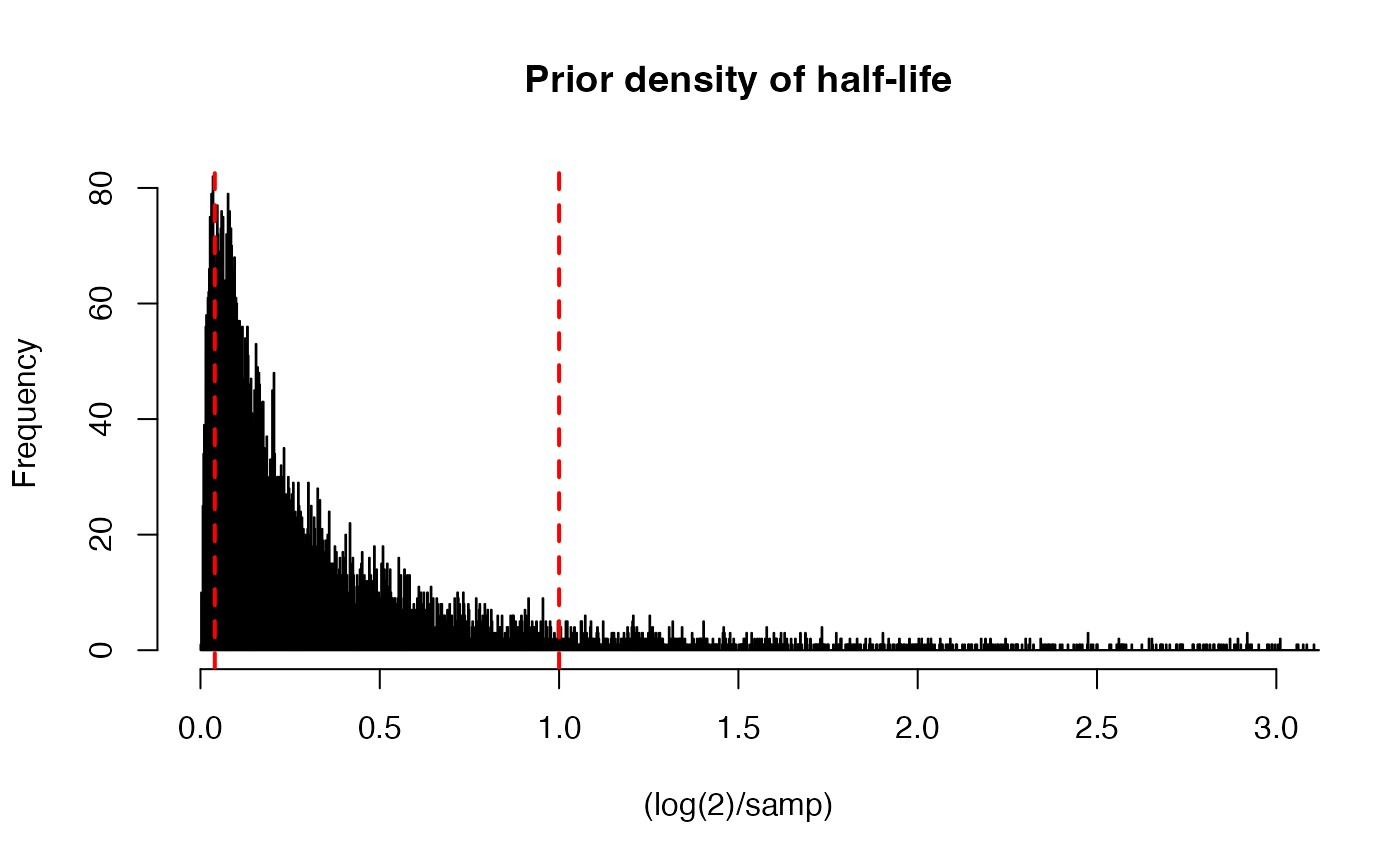
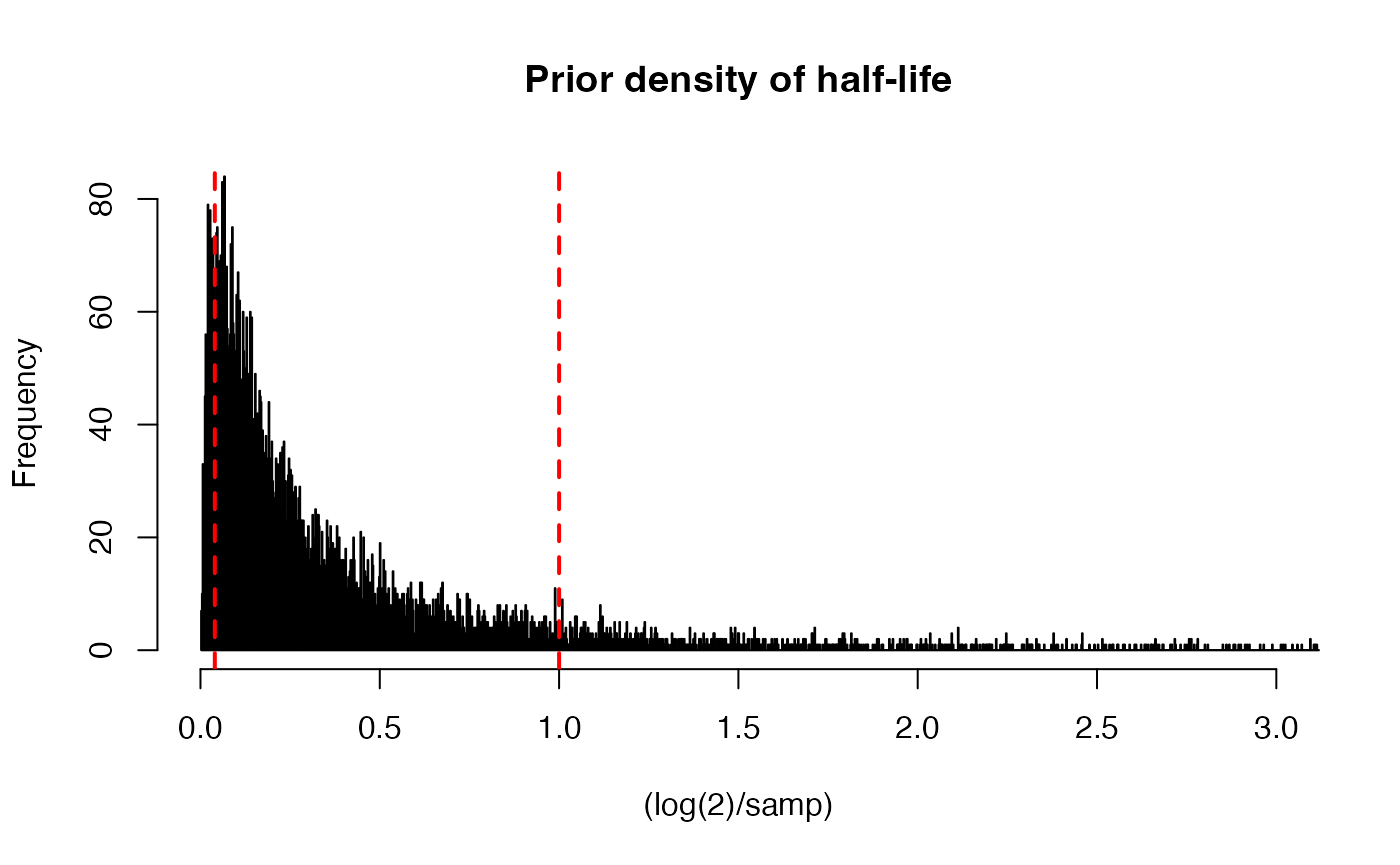
“edits”

diff --git a/docs/articles/OU-Models.html b/docs/articles/OU-Models.html
@@ -41,12 +41,12 @@
 <li class="nav-item">
   <a class="nav-link" href="../reference/">Reference</a>
 </li>
-<li class="nav-item dropdown">
+<li class="active nav-item dropdown">
   <a href="#" class="nav-link dropdown-toggle" data-bs-toggle="dropdown" role="button" aria-expanded="false" aria-haspopup="true" id="dropdown-articles">Articles</a>
   <div class="dropdown-menu" aria-labelledby="dropdown-articles">
-    <a class="dropdown-item" href="../docs/articles/OU-Models.html">OU-Models</a>
-    <a class="dropdown-item" href="../docs/articles/OU-Models-Prediction.html">OU Models with Prediction</a>
-    <a class="dropdown-item" href="../docs/articles/faq.html">FAQ</a>
+    <a class="dropdown-item" href="../articles/OU-Models.html">OU-Models</a>
+    <a class="dropdown-item" href="../articles/OU-Models-Prediction.html">OU Models with Prediction</a>
+    <a class="dropdown-item" href="../articles/faq.html">FAQ</a>
   </div>
 </li>
 <li class="nav-item">
@@ -279,13 +279,13 @@
 <div class="sourceCode" id="cb9"><pre class="downlit sourceCode r">
 <code class="sourceCode R"><span class="co">#abline(v=(c(log(2)/0.07142857,log(2)/1)), col="red", lwd=2, lty=2) #Lines for 1 Ma and length of tree (14 Ma) - </span>
 <span class="fu"><a href="https://rdrr.io/r/base/Extremes.html" class="external-link">min</a></span><span class="op">(</span><span class="va">samp</span><span class="op">)</span>
-<span class="co">#&gt; [1] 0.02573529</span>
+<span class="co">#&gt; [1] 0.04848832</span>
 <span class="fu"><a href="https://rdrr.io/r/base/Extremes.html" class="external-link">max</a></span><span class="op">(</span><span class="va">samp</span><span class="op">)</span>
-<span class="co">#&gt; [1] 524.7996</span>
+<span class="co">#&gt; [1] 281.7627</span>
 <span class="fu"><a href="https://rdrr.io/r/base/Log.html" class="external-link">log</a></span><span class="op">(</span><span class="fl">2</span><span class="op">)</span><span class="op">/</span><span class="fu"><a href="https://rdrr.io/r/base/Extremes.html" class="external-link">min</a></span><span class="op">(</span><span class="va">samp</span><span class="op">)</span>
-<span class="co">#&gt; [1] 26.93373</span>
+<span class="co">#&gt; [1] 14.29514</span>
 <span class="fu"><a href="https://rdrr.io/r/base/Log.html" class="external-link">log</a></span><span class="op">(</span><span class="fl">2</span><span class="op">)</span><span class="op">/</span><span class="fu"><a href="https://rdrr.io/r/base/Extremes.html" class="external-link">max</a></span><span class="op">(</span><span class="va">samp</span><span class="op">)</span>
-<span class="co">#&gt; [1] 0.001320784</span>
+<span class="co">#&gt; [1] 0.002460038</span>
 
 <span class="va">quantiles</span> <span class="op">&lt;-</span> <span class="fu"><a href="https://rdrr.io/r/base/c.html" class="external-link">c</a></span><span class="op">(</span><span class="fl">0</span>, <span class="fl">0.01</span>, <span class="fl">0.025</span>,<span class="fl">0.10</span>, <span class="fl">0.25</span>, <span class="fl">0.5</span>, <span class="fl">0.75</span>,<span class="fl">0.90</span>,<span class="fl">0.95</span>, <span class="fl">0.975</span>, <span class="fl">0.99</span>, <span class="fl">1</span><span class="op">)</span>
 <span class="co">#hls &lt;- rlnorm(10000, meanlog=log(2)/par.alpha$meanlog, sdlog=log(2)/par.alpha$sdlog)</span>
@@ -293,7 +293,7 @@
 <span class="va">qs</span> <span class="op">&lt;-</span> <span class="fu"><a href="https://rdrr.io/r/stats/quantile.html" class="external-link">quantile</a></span><span class="op">(</span><span class="fu"><a href="https://rdrr.io/r/base/Log.html" class="external-link">log</a></span><span class="op">(</span><span class="fl">2</span><span class="op">)</span><span class="op">/</span><span class="va">samp</span>, <span class="va">quantiles</span><span class="op">)</span> <span class="co">## Use 'alfs' and math to calculate the quantiles of phylogenetic half-life</span>
 <span class="fu"><a href="https://rdrr.io/r/base/Round.html" class="external-link">round</a></span><span class="op">(</span><span class="va">qs</span>, <span class="fl">2</span><span class="op">)</span>
 <span class="co">#&gt;    0%    1%  2.5%   10%   25%   50%   75%   90%   95% 97.5%   99%  100% </span>
-<span class="co">#&gt;  0.00  0.01  0.02  0.04  0.08  0.19  0.45  0.95  1.54  2.31  3.61 26.93</span>
+<span class="co">#&gt;  0.00  0.01  0.02  0.04  0.09  0.20  0.47  0.99  1.50  2.25  3.57 14.30</span>
 
 <span class="fu"><a href="https://rdrr.io/r/graphics/hist.html" class="external-link">hist</a></span><span class="op">(</span><span class="op">(</span><span class="fu"><a href="https://rdrr.io/r/base/Log.html" class="external-link">log</a></span><span class="op">(</span><span class="fl">2</span><span class="op">)</span><span class="op">/</span><span class="va">samp</span><span class="op">)</span>, breaks<span class="op">=</span><span class="fl">10000</span>, main<span class="op">=</span><span class="st">"Prior density of half-life"</span>,xlim<span class="op">=</span><span class="fu"><a href="https://rdrr.io/r/base/c.html" class="external-link">c</a></span><span class="op">(</span><span class="fl">0</span>,<span class="fl">3</span><span class="op">)</span><span class="op">)</span>
 <span class="fu"><a href="https://rdrr.io/r/graphics/abline.html" class="external-link">abline</a></span><span class="op">(</span>v<span class="op">=</span><span class="op">(</span><span class="fu"><a href="https://rdrr.io/r/base/c.html" class="external-link">c</a></span><span class="op">(</span><span class="fl">0.04</span>,<span class="fl">1</span><span class="op">)</span><span class="op">)</span>, col<span class="op">=</span><span class="st">"red"</span>, lwd<span class="op">=</span><span class="fl">2</span>, lty<span class="op">=</span><span class="fl">2</span><span class="op">)</span> <span class="co">#Lines for 1 Ma and length of tree (27 Ma) - </span></code></pre></div>
@@ -322,13 +322,13 @@
 <div class="sourceCode" id="cb12"><pre class="downlit sourceCode r">
 <code class="sourceCode R"><span class="co">#abline(v=(c(log(2)/0.07142857,log(2)/1)), col="red", lwd=2, lty=2) #Lines for 1 Ma and length of tree (14 Ma) - </span>
 <span class="fu"><a href="https://rdrr.io/r/base/Extremes.html" class="external-link">min</a></span><span class="op">(</span><span class="va">samp</span><span class="op">)</span>
-<span class="co">#&gt; [1] 1.60123e-05</span>
+<span class="co">#&gt; [1] 1.495512e-05</span>
 <span class="fu"><a href="https://rdrr.io/r/base/Extremes.html" class="external-link">max</a></span><span class="op">(</span><span class="va">samp</span><span class="op">)</span>
-<span class="co">#&gt; [1] 449.8383</span>
+<span class="co">#&gt; [1] 159.9032</span>
 <span class="fu"><a href="https://rdrr.io/r/base/Log.html" class="external-link">log</a></span><span class="op">(</span><span class="fl">2</span><span class="op">)</span><span class="op">/</span><span class="fu"><a href="https://rdrr.io/r/base/Extremes.html" class="external-link">min</a></span><span class="op">(</span><span class="va">samp</span><span class="op">)</span>
-<span class="co">#&gt; [1] 43288.43</span>
+<span class="co">#&gt; [1] 46348.49</span>
 <span class="fu"><a href="https://rdrr.io/r/base/Log.html" class="external-link">log</a></span><span class="op">(</span><span class="fl">2</span><span class="op">)</span><span class="op">/</span><span class="fu"><a href="https://rdrr.io/r/base/Extremes.html" class="external-link">max</a></span><span class="op">(</span><span class="va">samp</span><span class="op">)</span>
-<span class="co">#&gt; [1] 0.001540881</span>
+<span class="co">#&gt; [1] 0.004334794</span>
 
 <span class="va">quantiles</span> <span class="op">&lt;-</span> <span class="fu"><a href="https://rdrr.io/r/base/c.html" class="external-link">c</a></span><span class="op">(</span><span class="fl">0</span>, <span class="fl">0.01</span>, <span class="fl">0.025</span>,<span class="fl">0.10</span>, <span class="fl">0.25</span>, <span class="fl">0.5</span>, <span class="fl">0.75</span>, <span class="fl">0.90</span>, <span class="fl">0.975</span>, <span class="fl">0.99</span>, <span class="fl">1</span><span class="op">)</span>
 <span class="co">#hls &lt;- rlnorm(10000, meanlog=log(2)/par.alpha$meanlog, sdlog=log(2)/par.alpha$sdlog)</span>
@@ -336,7 +336,7 @@
 <span class="va">qs</span> <span class="op">&lt;-</span> <span class="fu"><a href="https://rdrr.io/r/stats/quantile.html" class="external-link">quantile</a></span><span class="op">(</span><span class="va">samp</span>, <span class="va">quantiles</span><span class="op">)</span> <span class="co">## Use 'alfs' and math to calculate the quantiles of phylogenetic half-life</span>
 <span class="fu"><a href="https://rdrr.io/r/base/Round.html" class="external-link">round</a></span><span class="op">(</span><span class="va">qs</span>, <span class="fl">2</span><span class="op">)</span>
 <span class="co">#&gt;     0%     1%   2.5%    10%    25%    50%    75%    90%  97.5%    99%   100% </span>
-<span class="co">#&gt;   0.00   0.00   0.00   0.02   0.04   0.10   0.24   0.63   2.33   6.33 449.84</span>
+<span class="co">#&gt;   0.00   0.00   0.00   0.02   0.04   0.10   0.25   0.65   2.43   5.99 159.90</span>
 
 <span class="fu"><a href="https://rdrr.io/r/graphics/hist.html" class="external-link">hist</a></span><span class="op">(</span><span class="va">samp</span><span class="op">/</span><span class="op">(</span><span class="fl">2</span><span class="op">*</span><span class="fl">2</span><span class="op">)</span>, breaks<span class="op">=</span><span class="fl">10000</span>, main<span class="op">=</span><span class="st">"Prior density of Vy"</span>,xlim<span class="op">=</span><span class="fu"><a href="https://rdrr.io/r/base/c.html" class="external-link">c</a></span><span class="op">(</span><span class="fl">0</span>,<span class="fl">3</span><span class="op">)</span><span class="op">)</span></code></pre></div>
 <p><img src="OU-Models_files/figure-html/unnamed-chunk-6-2.png" width="700"></p>
@@ -361,16 +361,16 @@
 <span class="co">#&gt; 2 chains, each with iter=4000; warmup=2000; thin=1; </span>
 <span class="co">#&gt; post-warmup draws per chain=2000, total post-warmup draws=4000.</span>
 <span class="co">#&gt; </span>
-<span class="co">#&gt;           mean se_mean    sd 2.5%  25%  50%  75% 97.5% n_eff Rhat</span>
-<span class="co">#&gt; a         6.21    0.36 10.25 0.45 1.53 2.97 6.29 37.69   823    1</span>
-<span class="co">#&gt; hl        0.37    0.01  0.50 0.02 0.11 0.23 0.45  1.55  1801    1</span>
-<span class="co">#&gt; alpha     5.06    0.00  0.04 4.98 5.03 5.06 5.08  5.14  1948    1</span>
-<span class="co">#&gt; beta[1]   0.57    0.00  0.02 0.53 0.56 0.57 0.58  0.61  2282    1</span>
-<span class="co">#&gt; vy        0.02    0.00  0.01 0.01 0.01 0.01 0.02  0.04  2456    1</span>
-<span class="co">#&gt; r_squared 0.96    0.00  0.00 0.95 0.96 0.96 0.96  0.97  1028    1</span>
-<span class="co">#&gt; sigma2_y  0.17    0.01  0.27 0.02 0.05 0.08 0.17  0.98   756    1</span>
+<span class="co">#&gt;           mean se_mean   sd 2.5%  25%  50%  75% 97.5% n_eff Rhat</span>
+<span class="co">#&gt; a         5.41    0.22 7.64 0.39 1.43 2.87 6.20 25.78  1183    1</span>
+<span class="co">#&gt; hl        0.40    0.01 0.52 0.03 0.11 0.24 0.49  1.77  1699    1</span>
+<span class="co">#&gt; alpha     5.06    0.00 0.04 4.97 5.03 5.06 5.08  5.14  1594    1</span>
+<span class="co">#&gt; beta[1]   0.57    0.00 0.02 0.53 0.56 0.57 0.58  0.61  2233    1</span>
+<span class="co">#&gt; vy        0.02    0.00 0.01 0.01 0.01 0.02 0.02  0.05  2464    1</span>
+<span class="co">#&gt; r_squared 0.96    0.00 0.00 0.95 0.96 0.96 0.96  0.97  1155    1</span>
+<span class="co">#&gt; sigma2_y  0.15    0.01 0.20 0.02 0.05 0.08 0.17  0.75  1123    1</span>
 <span class="co">#&gt; </span>
-<span class="co">#&gt; Samples were drawn using NUTS(diag_e) at Wed Dec  8 18:32:52 2021.</span>
+<span class="co">#&gt; Samples were drawn using NUTS(diag_e) at Wed Dec  8 19:11:11 2021.</span>
 <span class="co">#&gt; For each parameter, n_eff is a crude measure of effective sample size,</span>
 <span class="co">#&gt; and Rhat is the potential scale reduction factor on split chains (at </span>
 <span class="co">#&gt; convergence, Rhat=1).</span>
@@ -402,17 +402,17 @@
 <span class="co">#&gt; post-warmup draws per chain=2000, total post-warmup draws=4000.</span>
 <span class="co">#&gt; </span>
 <span class="co">#&gt;               mean se_mean    sd  2.5%   25%   50%   75%  97.5% n_eff Rhat</span>
-<span class="co">#&gt; a            43.41    0.51 23.16 15.30 27.23 37.68 53.31 105.65  2047    1</span>
-<span class="co">#&gt; hl            0.02    0.00  0.01  0.01  0.01  0.02  0.03   0.05  2346    1</span>
-<span class="co">#&gt; alpha         5.06    0.00  0.03  5.00  5.04  5.06  5.08   5.12  2977    1</span>
-<span class="co">#&gt; beta[1]       0.59    0.00  0.02  0.55  0.57  0.59  0.60   0.63  2432    1</span>
-<span class="co">#&gt; beta_evol[1]  5.06    0.00  0.00  5.05  5.06  5.06  5.06   5.06  4140    1</span>
-<span class="co">#&gt; beta_evol[2]  0.57    0.00  0.00  0.57  0.57  0.57  0.57   0.57  2986    1</span>
-<span class="co">#&gt; vy            0.01    0.00  0.00  0.00  0.00  0.00  0.01   0.02  2680    1</span>
-<span class="co">#&gt; r_squared     0.96    0.00  0.00  0.95  0.96  0.96  0.96   0.97  1697    1</span>
-<span class="co">#&gt; sigma2_y      0.50    0.01  0.50  0.01  0.13  0.33  0.71   1.92  1582    1</span>
+<span class="co">#&gt; a            42.52    0.53 22.52 14.89 27.39 37.07 51.85 102.10  1815    1</span>
+<span class="co">#&gt; hl            0.02    0.00  0.01  0.01  0.01  0.02  0.03   0.05  2276    1</span>
+<span class="co">#&gt; alpha         5.05    0.00  0.03  4.99  5.04  5.06  5.08   5.12  2855    1</span>
+<span class="co">#&gt; beta[1]       0.59    0.00  0.02  0.55  0.57  0.59  0.60   0.63  2951    1</span>
+<span class="co">#&gt; beta_evol[1]  5.06    0.00  0.00  5.05  5.06  5.06  5.06   5.06  4656    1</span>
+<span class="co">#&gt; beta_evol[2]  0.57    0.00  0.00  0.57  0.57  0.57  0.57   0.57  2815    1</span>
+<span class="co">#&gt; vy            0.01    0.00  0.00  0.00  0.00  0.00  0.01   0.02  3794    1</span>
+<span class="co">#&gt; r_squared     0.96    0.00  0.00  0.95  0.96  0.96  0.96   0.97  1789    1</span>
+<span class="co">#&gt; sigma2_y      0.48    0.01  0.49  0.01  0.12  0.30  0.66   1.89  1911    1</span>
 <span class="co">#&gt; </span>
-<span class="co">#&gt; Samples were drawn using NUTS(diag_e) at Wed Dec  8 18:37:13 2021.</span>
+<span class="co">#&gt; Samples were drawn using NUTS(diag_e) at Wed Dec  8 19:15:46 2021.</span>
 <span class="co">#&gt; For each parameter, n_eff is a crude measure of effective sample size,</span>
 <span class="co">#&gt; and Rhat is the potential scale reduction factor on split chains (at </span>
 <span class="co">#&gt; convergence, Rhat=1).</span>
@@ -441,7 +441,7 @@
 <span class="va">lml.fit.adaptive</span><span class="op">&lt;-</span><span class="fu"><a href="https://rdrr.io/pkg/bridgesampling/man/bridge_sampler.html" class="external-link">bridge_sampler</a></span><span class="op">(</span><span class="va">fit.adaptive</span>,silent<span class="op">=</span><span class="cn">TRUE</span><span class="op">)</span>
 <span class="va">BF_att</span> <span class="op">&lt;-</span> <span class="fu">bridgesampling</span><span class="fu">::</span><span class="fu"><a href="https://rdrr.io/pkg/bridgesampling/man/bf.html" class="external-link">bf</a></span><span class="op">(</span><span class="va">lml.fit.direct</span>, <span class="va">lml.fit.adaptive</span><span class="op">)</span>
 <span class="va">BF_att</span>
-<span class="co">#&gt; Estimated Bayes factor in favor of lml.fit.direct over lml.fit.adaptive: 33.69908</span></code></pre></div>
+<span class="co">#&gt; Estimated Bayes factor in favor of lml.fit.direct over lml.fit.adaptive: 32.65198</span></code></pre></div>
 <p>We find that the data is 5.2 more likely under a model that assumes a direct effect model rather than af adaptive model.</p>
 </div>
 <div class="section level1">
@@ -457,12 +457,12 @@
 <span class="co">#&gt; post-warmup draws per chain=2000, total post-warmup draws=4000.</span>
 <span class="co">#&gt; </span>
 <span class="co">#&gt;           mean se_mean   sd 2.5%  25%  50%  75% 97.5% n_eff Rhat</span>
-<span class="co">#&gt; alpha     5.05       0 0.08 4.88 5.00 5.05 5.10  5.21  2918    1</span>
-<span class="co">#&gt; beta[1]   0.56       0 0.02 0.51 0.54 0.56 0.57  0.60  2527    1</span>
-<span class="co">#&gt; r_squared 0.99       0 0.01 0.97 0.99 0.99 0.99  0.99  2053    1</span>
-<span class="co">#&gt; sigma2_y  0.03       0 0.01 0.01 0.02 0.02 0.03  0.06  2542    1</span>
+<span class="co">#&gt; alpha     5.05       0 0.08 4.90 5.00 5.05 5.11  5.21  3088    1</span>
+<span class="co">#&gt; beta[1]   0.56       0 0.02 0.51 0.54 0.56 0.57  0.60  3212    1</span>
+<span class="co">#&gt; r_squared 0.99       0 0.01 0.97 0.99 0.99 0.99  0.99  2730    1</span>
+<span class="co">#&gt; sigma2_y  0.03       0 0.01 0.01 0.02 0.02 0.03  0.05  3214    1</span>
 <span class="co">#&gt; </span>
-<span class="co">#&gt; Samples were drawn using NUTS(diag_e) at Wed Dec  8 18:39:59 2021.</span>
+<span class="co">#&gt; Samples were drawn using NUTS(diag_e) at Wed Dec  8 19:18:42 2021.</span>
 <span class="co">#&gt; For each parameter, n_eff is a crude measure of effective sample size,</span>
 <span class="co">#&gt; and Rhat is the potential scale reduction factor on split chains (at </span>
 <span class="co">#&gt; convergence, Rhat=1).</span>
@@ -492,7 +492,7 @@
 
 <span class="va">BF_att</span> <span class="op">&lt;-</span> <span class="fu">bridgesampling</span><span class="fu">::</span><span class="fu"><a href="https://rdrr.io/pkg/bridgesampling/man/bf.html" class="external-link">bf</a></span><span class="op">(</span><span class="va">lml.fit.direct</span>, <span class="va">lml.fit.BM</span><span class="op">)</span>
 <span class="va">BF_att</span>
-<span class="co">#&gt; Estimated Bayes factor in favor of lml.fit.direct over lml.fit.BM: 1.33507</span></code></pre></div>
+<span class="co">#&gt; Estimated Bayes factor in favor of lml.fit.direct over lml.fit.BM: 1.26850</span></code></pre></div>
 <p>Here the direct fit model has a Bayes Factor of 0.7 over the BM model, which makes sense for this data as the estimated phylogenetic half life is quite long, 65% the length of the phylogeny.</p>
 </div>
 <div class="section level1">

diff --git a/docs/articles/OU-Models-Prediction.html b/docs/articles/OU-Models-Prediction.html
@@ -41,12 +41,12 @@
 <li class="nav-item">
   <a class="nav-link" href="../reference/">Reference</a>
 </li>
-<li class="nav-item dropdown">
+<li class="active nav-item dropdown">
   <a href="#" class="nav-link dropdown-toggle" data-bs-toggle="dropdown" role="button" aria-expanded="false" aria-haspopup="true" id="dropdown-articles">Articles</a>
   <div class="dropdown-menu" aria-labelledby="dropdown-articles">
-    <a class="dropdown-item" href="../docs/articles/OU-Models.html">OU-Models</a>
-    <a class="dropdown-item" href="../docs/articles/OU-Models-Prediction.html">OU Models with Prediction</a>
-    <a class="dropdown-item" href="../docs/articles/faq.html">FAQ</a>
+    <a class="dropdown-item" href="../articles/OU-Models.html">OU-Models</a>
+    <a class="dropdown-item" href="../articles/OU-Models-Prediction.html">OU Models with Prediction</a>
+    <a class="dropdown-item" href="../articles/faq.html">FAQ</a>
   </div>
 </li>
 <li class="nav-item">
@@ -269,17 +269,17 @@
 <span class="co">#&gt; post-warmup draws per chain=2000, total post-warmup draws=4000.</span>
 <span class="co">#&gt; </span>
 <span class="co">#&gt;                      mean se_mean   sd  2.5%   25%   50%   75% 97.5% n_eff Rhat</span>
-<span class="co">#&gt; a                    6.26    0.32 9.73  0.40  1.45  2.86  6.90 33.68   898    1</span>
-<span class="co">#&gt; hl                   0.40    0.01 0.54  0.02  0.10  0.24  0.48  1.74  1873    1</span>
-<span class="co">#&gt; alpha                5.07    0.00 0.04  4.99  5.04  5.06  5.09  5.15  1782    1</span>
-<span class="co">#&gt; beta[1]              0.57    0.00 0.02  0.53  0.56  0.57  0.58  0.61  2210    1</span>
-<span class="co">#&gt; r_squared            0.96    0.00 0.00  0.95  0.96  0.96  0.97  0.97   981    1</span>
-<span class="co">#&gt; sigma2_y             0.16    0.01 0.25  0.02  0.04  0.08  0.17  0.84   888    1</span>
-<span class="co">#&gt; RMSE                 0.29    0.00 0.03  0.25  0.28  0.29  0.31  0.35  3238    1</span>
-<span class="co">#&gt; RMSE_mu              0.27    0.00 0.02  0.26  0.26  0.26  0.27  0.31  1018    1</span>
-<span class="co">#&gt; X_pred_fos_means[1] -0.47    0.00 0.17 -0.83 -0.58 -0.47 -0.35 -0.13  3222    1</span>
+<span class="co">#&gt; a                    6.10    0.29 8.81  0.41  1.53  3.12  6.66 32.58   916    1</span>
+<span class="co">#&gt; hl                   0.38    0.01 0.51  0.02  0.10  0.22  0.45  1.71  1730    1</span>
+<span class="co">#&gt; alpha                5.06    0.00 0.04  5.00  5.04  5.06  5.08  5.14  1491    1</span>
+<span class="co">#&gt; beta[1]              0.57    0.00 0.02  0.53  0.56  0.57  0.58  0.61  2045    1</span>
+<span class="co">#&gt; r_squared            0.96    0.00 0.00  0.95  0.96  0.96  0.97  0.97  1171    1</span>
+<span class="co">#&gt; sigma2_y             0.16    0.01 0.23  0.02  0.04  0.08  0.17  0.83   788    1</span>
+<span class="co">#&gt; RMSE                 0.29    0.00 0.03  0.25  0.28  0.29  0.31  0.35  2668    1</span>
+<span class="co">#&gt; RMSE_mu              0.27    0.00 0.02  0.26  0.26  0.26  0.27  0.31   876    1</span>
+<span class="co">#&gt; X_pred_fos_means[1] -0.47    0.00 0.17 -0.81 -0.58 -0.47 -0.36 -0.14  3300    1</span>
 <span class="co">#&gt; </span>
-<span class="co">#&gt; Samples were drawn using NUTS(diag_e) at Wed Dec  8 18:21:50 2021.</span>
+<span class="co">#&gt; Samples were drawn using NUTS(diag_e) at Wed Dec  8 19:00:30 2021.</span>
 <span class="co">#&gt; For each parameter, n_eff is a crude measure of effective sample size,</span>
 <span class="co">#&gt; and Rhat is the potential scale reduction factor on split chains (at </span>
 <span class="co">#&gt; convergence, Rhat=1).</span>
@@ -461,17 +461,17 @@
 <span class="co">#&gt; post-warmup draws per chain=2000, total post-warmup draws=4000.</span>
 <span class="co">#&gt; </span>
 <span class="co">#&gt;                     mean se_mean   sd 2.5%  25%  50%  75% 97.5% n_eff Rhat</span>
-<span class="co">#&gt; a                   5.82    0.26 8.74 0.41 1.37 2.72 6.12 33.18  1148    1</span>
-<span class="co">#&gt; hl                  0.41    0.01 0.58 0.02 0.11 0.25 0.51  1.70  1824    1</span>
-<span class="co">#&gt; alpha               5.07    0.00 0.04 4.99 5.04 5.07 5.09  5.15  1704    1</span>
-<span class="co">#&gt; beta[1]             0.57    0.00 0.02 0.53 0.56 0.57 0.58  0.61  2497    1</span>
-<span class="co">#&gt; r_squared           0.96    0.00 0.00 0.95 0.96 0.96 0.97  0.97  1117    1</span>
-<span class="co">#&gt; sigma2_y            0.15    0.01 0.23 0.02 0.04 0.07 0.15  0.87  1041    1</span>
-<span class="co">#&gt; RMSE                0.21    0.00 0.03 0.17 0.20 0.21 0.23  0.27  3501    1</span>
-<span class="co">#&gt; RMSE_mu             0.16    0.00 0.01 0.15 0.15 0.15 0.16  0.18   977    1</span>
-<span class="co">#&gt; Y_pred_fos_means[1] 5.09    0.00 0.13 4.85 5.01 5.09 5.17  5.35  3736    1</span>
+<span class="co">#&gt; a                   5.38    0.23 8.07 0.40 1.36 2.76 5.92 27.22  1237    1</span>
+<span class="co">#&gt; hl                  0.42    0.01 0.56 0.03 0.12 0.25 0.51  1.74  1733    1</span>
+<span class="co">#&gt; alpha               5.06    0.00 0.04 4.99 5.04 5.06 5.08  5.15  1628    1</span>
+<span class="co">#&gt; beta[1]             0.57    0.00 0.02 0.53 0.56 0.57 0.58  0.61  2421    1</span>
+<span class="co">#&gt; r_squared           0.96    0.00 0.00 0.95 0.96 0.96 0.97  0.97  1214    1</span>
+<span class="co">#&gt; sigma2_y            0.14    0.01 0.21 0.02 0.04 0.07 0.15  0.72  1002    1</span>
+<span class="co">#&gt; RMSE                0.21    0.00 0.03 0.17 0.20 0.21 0.23  0.26  3197    1</span>
+<span class="co">#&gt; RMSE_mu             0.15    0.00 0.01 0.15 0.15 0.15 0.16  0.18  1047    1</span>
+<span class="co">#&gt; Y_pred_fos_means[1] 5.10    0.00 0.13 4.84 5.02 5.10 5.17  5.34  4026    1</span>
 <span class="co">#&gt; </span>
-<span class="co">#&gt; Samples were drawn using NUTS(diag_e) at Wed Dec  8 18:27:18 2021.</span>
+<span class="co">#&gt; Samples were drawn using NUTS(diag_e) at Wed Dec  8 19:05:43 2021.</span>
 <span class="co">#&gt; For each parameter, n_eff is a crude measure of effective sample size,</span>
 <span class="co">#&gt; and Rhat is the potential scale reduction factor on split chains (at </span>
 <span class="co">#&gt; convergence, Rhat=1).</span>

diff --git a/docs/404.html b/docs/404.html
@@ -42,9 +42,9 @@
 <li class="nav-item dropdown">
   <a href="https://github.com/mark-grabowski/blouch/#" class="nav-link dropdown-toggle" data-bs-toggle="dropdown" role="button" aria-expanded="false" aria-haspopup="true" id="dropdown-articles">Articles</a>
   <div class="dropdown-menu" aria-labelledby="dropdown-articles">
-    <a class="dropdown-item" href="https://github.com/mark-grabowski/blouch/docs/articles/OU-Models.html">OU-Models</a>
-    <a class="dropdown-item" href="https://github.com/mark-grabowski/blouch/docs/articles/OU-Models-Prediction.html">OU Models with Prediction</a>
-    <a class="dropdown-item" href="https://github.com/mark-grabowski/blouch/docs/articles/faq.html">FAQ</a>
+    <a class="dropdown-item" href="https://github.com/mark-grabowski/blouch/articles/OU-Models.html">OU-Models</a>
+    <a class="dropdown-item" href="https://github.com/mark-grabowski/blouch/articles/OU-Models-Prediction.html">OU Models with Prediction</a>
+    <a class="dropdown-item" href="https://github.com/mark-grabowski/blouch/articles/faq.html">FAQ</a>
   </div>
 </li>
 <li class="nav-item">

diff --git a/docs/reference/sigma.X.estimate.html b/docs/reference/sigma.X.estimate.html
@@ -35,9 +35,9 @@ It includes the function sigma.X.estimate, taken from the R Pacakge Slouch (Kopp
 <li class="nav-item dropdown">
   <a href="#" class="nav-link dropdown-toggle" data-bs-toggle="dropdown" role="button" aria-expanded="false" aria-haspopup="true" id="dropdown-articles">Articles</a>
   <div class="dropdown-menu" aria-labelledby="dropdown-articles">
-    <a class="dropdown-item" href="../docs/articles/OU-Models.html">OU-Models</a>
-    <a class="dropdown-item" href="../docs/articles/OU-Models-Prediction.html">OU Models with Prediction</a>
-    <a class="dropdown-item" href="../docs/articles/faq.html">FAQ</a>
+    <a class="dropdown-item" href="../articles/OU-Models.html">OU-Models</a>
+    <a class="dropdown-item" href="../articles/OU-Models-Prediction.html">OU Models with Prediction</a>
+    <a class="dropdown-item" href="../articles/faq.html">FAQ</a>
   </div>
 </li>
 <li class="nav-item">

diff --git a/docs/news/index.html b/docs/news/index.html
@@ -27,9 +27,9 @@
 <li class="nav-item dropdown">
   <a href="#" class="nav-link dropdown-toggle" data-bs-toggle="dropdown" role="button" aria-expanded="false" aria-haspopup="true" id="dropdown-articles">Articles</a>
   <div class="dropdown-menu" aria-labelledby="dropdown-articles">
-    <a class="dropdown-item" href="../docs/articles/OU-Models.html">OU-Models</a>
-    <a class="dropdown-item" href="../docs/articles/OU-Models-Prediction.html">OU Models with Prediction</a>
-    <a class="dropdown-item" href="../docs/articles/faq.html">FAQ</a>
+    <a class="dropdown-item" href="../articles/OU-Models.html">OU-Models</a>
+    <a class="dropdown-item" href="../articles/OU-Models-Prediction.html">OU Models with Prediction</a>
+    <a class="dropdown-item" href="../articles/faq.html">FAQ</a>
   </div>
 </li>
 <li class="active nav-item">

diff --git a/docs/articles/index.html b/docs/articles/index.html
@@ -27,9 +27,9 @@
 <li class="nav-item dropdown">
   <a href="#" class="nav-link dropdown-toggle" data-bs-toggle="dropdown" role="button" aria-expanded="false" aria-haspopup="true" id="dropdown-articles">Articles</a>
   <div class="dropdown-menu" aria-labelledby="dropdown-articles">
-    <a class="dropdown-item" href="../docs/articles/OU-Models.html">OU-Models</a>
-    <a class="dropdown-item" href="../docs/articles/OU-Models-Prediction.html">OU Models with Prediction</a>
-    <a class="dropdown-item" href="../docs/articles/faq.html">FAQ</a>
+    <a class="dropdown-item" href="../articles/OU-Models.html">OU-Models</a>
+    <a class="dropdown-item" href="../articles/OU-Models-Prediction.html">OU Models with Prediction</a>
+    <a class="dropdown-item" href="../articles/faq.html">FAQ</a>
   </div>
 </li>
 <li class="nav-item">

diff --git a/docs/reference/blouch-package.html b/docs/reference/blouch-package.html
@@ -27,9 +27,9 @@
 <li class="nav-item dropdown">
   <a href="#" class="nav-link dropdown-toggle" data-bs-toggle="dropdown" role="button" aria-expanded="false" aria-haspopup="true" id="dropdown-articles">Articles</a>
   <div class="dropdown-menu" aria-labelledby="dropdown-articles">
-    <a class="dropdown-item" href="../docs/articles/OU-Models.html">OU-Models</a>
-    <a class="dropdown-item" href="../docs/articles/OU-Models-Prediction.html">OU Models with Prediction</a>
-    <a class="dropdown-item" href="../docs/articles/faq.html">FAQ</a>
+    <a class="dropdown-item" href="../articles/OU-Models.html">OU-Models</a>
+    <a class="dropdown-item" href="../articles/OU-Models-Prediction.html">OU Models with Prediction</a>
+    <a class="dropdown-item" href="../articles/faq.html">FAQ</a>
   </div>
 </li>
 <li class="nav-item">

diff --git a/docs/reference/index.html b/docs/reference/index.html
@@ -27,9 +27,9 @@
 <li class="nav-item dropdown">
   <a href="#" class="nav-link dropdown-toggle" data-bs-toggle="dropdown" role="button" aria-expanded="false" aria-haspopup="true" id="dropdown-articles">Articles</a>
   <div class="dropdown-menu" aria-labelledby="dropdown-articles">
-    <a class="dropdown-item" href="../docs/articles/OU-Models.html">OU-Models</a>
-    <a class="dropdown-item" href="../docs/articles/OU-Models-Prediction.html">OU Models with Prediction</a>
-    <a class="dropdown-item" href="../docs/articles/faq.html">FAQ</a>
+    <a class="dropdown-item" href="../articles/OU-Models.html">OU-Models</a>
+    <a class="dropdown-item" href="../articles/OU-Models-Prediction.html">OU Models with Prediction</a>
+    <a class="dropdown-item" href="../articles/faq.html">FAQ</a>
   </div>
 </li>
 <li class="nav-item">

diff --git a/docs/LICENSE-text.html b/docs/LICENSE-text.html
@@ -27,9 +27,9 @@
 <li class="nav-item dropdown">
   <a href="#" class="nav-link dropdown-toggle" data-bs-toggle="dropdown" role="button" aria-expanded="false" aria-haspopup="true" id="dropdown-articles">Articles</a>
   <div class="dropdown-menu" aria-labelledby="dropdown-articles">
-    <a class="dropdown-item" href="docs/articles/OU-Models.html">OU-Models</a>
-    <a class="dropdown-item" href="docs/articles/OU-Models-Prediction.html">OU Models with Prediction</a>
-    <a class="dropdown-item" href="docs/articles/faq.html">FAQ</a>
+    <a class="dropdown-item" href="articles/OU-Models.html">OU-Models</a>
+    <a class="dropdown-item" href="articles/OU-Models-Prediction.html">OU Models with Prediction</a>
+    <a class="dropdown-item" href="articles/faq.html">FAQ</a>
   </div>
 </li>
 <li class="nav-item">

diff --git a/docs/authors.html b/docs/authors.html
@@ -27,9 +27,9 @@
 <li class="nav-item dropdown">
   <a href="#" class="nav-link dropdown-toggle" data-bs-toggle="dropdown" role="button" aria-expanded="false" aria-haspopup="true" id="dropdown-articles">Articles</a>
   <div class="dropdown-menu" aria-labelledby="dropdown-articles">
-    <a class="dropdown-item" href="docs/articles/OU-Models.html">OU-Models</a>
-    <a class="dropdown-item" href="docs/articles/OU-Models-Prediction.html">OU Models with Prediction</a>
-    <a class="dropdown-item" href="docs/articles/faq.html">FAQ</a>
+    <a class="dropdown-item" href="articles/OU-Models.html">OU-Models</a>
+    <a class="dropdown-item" href="articles/OU-Models-Prediction.html">OU Models with Prediction</a>
+    <a class="dropdown-item" href="articles/faq.html">FAQ</a>
   </div>
 </li>
 <li class="nav-item">

diff --git a/docs/index.html b/docs/index.html
@@ -44,9 +44,9 @@
 <li class="nav-item dropdown">
   <a href="#" class="nav-link dropdown-toggle" data-bs-toggle="dropdown" role="button" aria-expanded="false" aria-haspopup="true" id="dropdown-articles">Articles</a>
   <div class="dropdown-menu" aria-labelledby="dropdown-articles">
-    <a class="dropdown-item" href="docs/articles/OU-Models.html">OU-Models</a>
-    <a class="dropdown-item" href="docs/articles/OU-Models-Prediction.html">OU Models with Prediction</a>
-    <a class="dropdown-item" href="docs/articles/faq.html">FAQ</a>
+    <a class="dropdown-item" href="articles/OU-Models.html">OU-Models</a>
+    <a class="dropdown-item" href="articles/OU-Models-Prediction.html">OU Models with Prediction</a>
+    <a class="dropdown-item" href="articles/faq.html">FAQ</a>
   </div>
 </li>
 <li class="nav-item">
